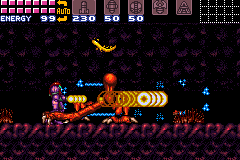
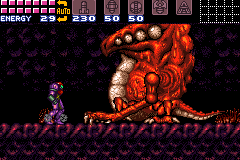
README: Crocomire, now that his body is drawn
Claude-Session: https://claude.ai/code/session_01JsmjgrKfr2uSukGNBabu17

diff --git a/README.md b/README.md
@@ -9,14 +9,15 @@
   <img src="docs/images/bomb-torizo.png" width="240" alt="Bomb Torizo throws bombs at Samus">
   <img src="docs/images/kraid.png" width="240" alt="Kraid">
   <br>
+  <img src="docs/images/crocomire.png" width="240" alt="Crocomire swings at Samus">
   <img src="docs/images/golden-torizo.png" width="240" alt="Samus shoots the Golden Torizo, who throws his orbs and crescents">
   <img src="docs/images/ridley.png" width="240" alt="Ridley">
-  <img src="docs/images/phantoon.png" width="240" alt="Phantoon">
   <br>
+  <img src="docs/images/phantoon.png" width="240" alt="Phantoon">
   <img src="docs/images/botwoon.png" width="240" alt="Botwoon">
   <img src="docs/images/draygon.png" width="240" alt="Draygon swoops and grabs Samus">
-  <img src="docs/images/golden-statue.png" width="240" alt="The golden statue at the entrance to Tourian">
   <br>
+  <img src="docs/images/golden-statue.png" width="240" alt="The golden statue at the entrance to Tourian">
   <img src="docs/images/mother-brain.png" width="240" alt="Mother Brain">
 </p>
 
@@ -170,7 +171,7 @@ hex, for the unnamed), then the loadout and the beams.
 
 <p align="center">
   <img src="docs/images/dev-map.png" width="240" alt="The map with a debug station, the loadout and the beams under it">
-  <img src="docs/images/dev-crocomire.png" width="240" alt="Crocomire's room, spawned into with all items">
+  <img src="docs/images/dev-crocomire.png" width="240" alt="Crocomire, spawned into with all items">
   <img src="docs/images/dev-draygon.png" width="240" alt="Draygon's room, spawned into with all items">
 </p>
 
@@ -206,8 +207,8 @@ doors (the game's own doors, from the side Samus comes in by): Bomb Torizo
 Phantoon (Wrecked Ship), Botwoon and Draygon (Maridia) and Mother Brain
 (Tourian). The spawn loads the area's last station, and when Samus has her
 controls, goes through the door as if she had walked into it. (Crocomire's is
-the hatch in the ceiling of his room, as in the game; he is there, but the
-fight didn't start in testing: he stays in his first pose.)
+the hatch in the ceiling of his room, as in the game. As there, beams don't
+hurt him: missiles in his mouth push him back.)
 
 **Loadouts.** L picks what Samus has; every one but the first makes every boss
 alive again, so that a file that has beaten them can fight them:
